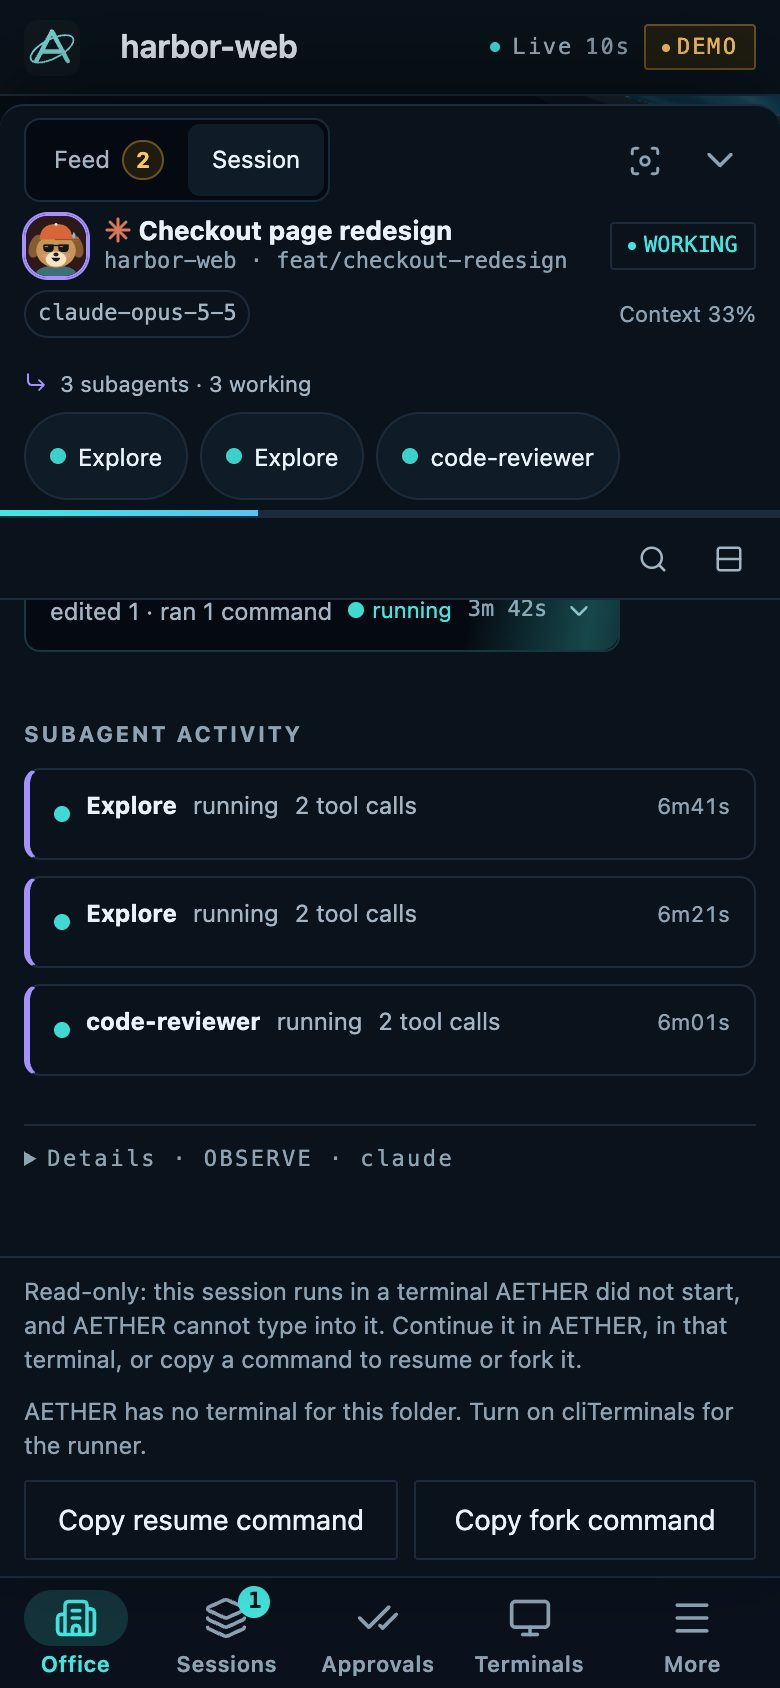
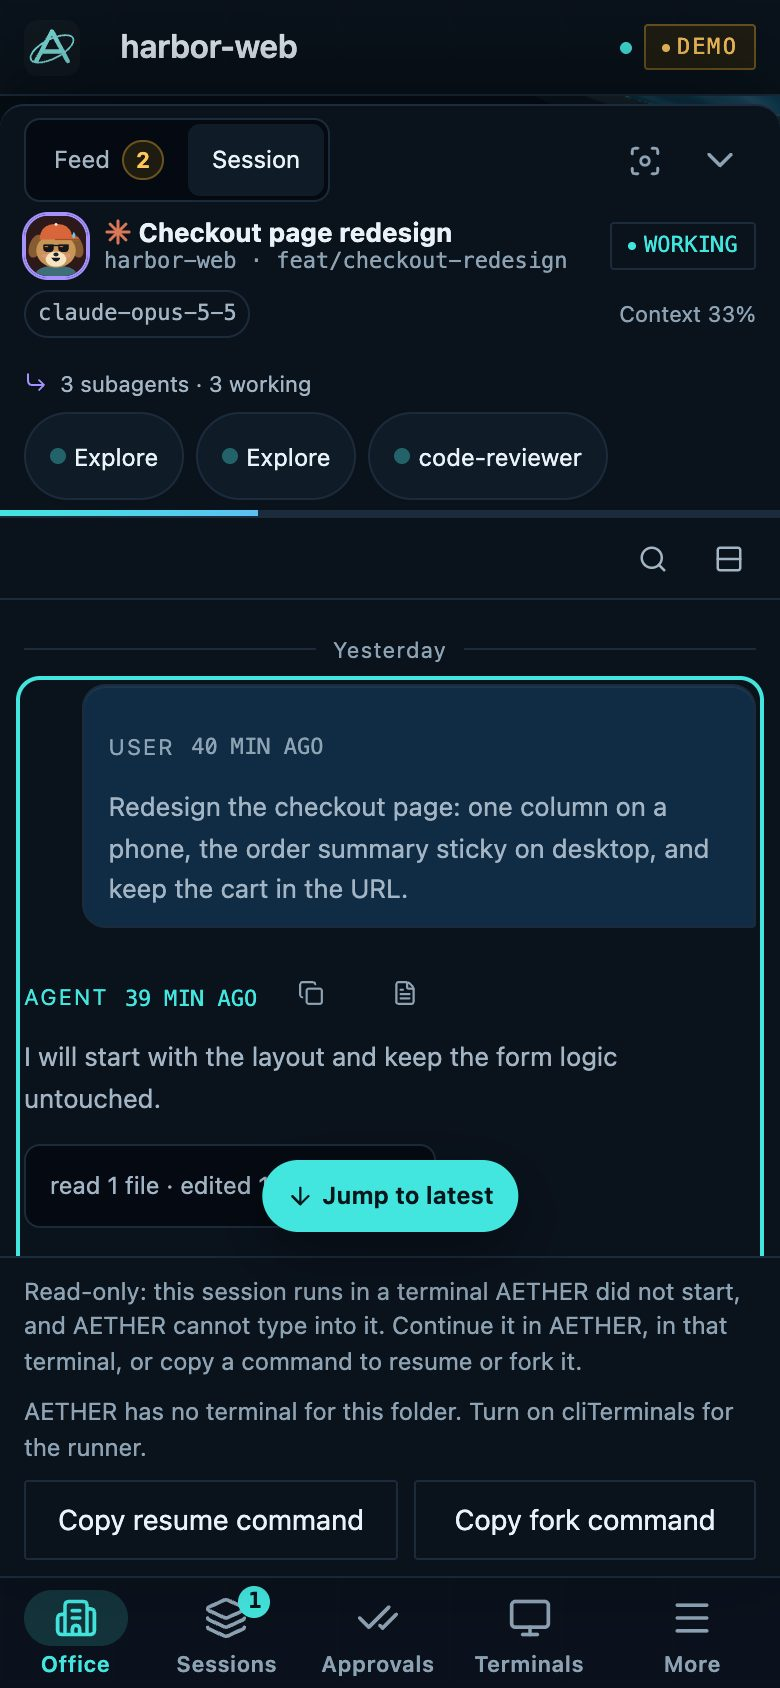
docs: expand bilingual README screenshot galleries

diff --git a/docs/images/README.md b/docs/images/README.md
@@ -7,7 +7,7 @@ of at most 250 KB, taken from a throwaway demo stack on **synthetic data**: inve
 (`harbor-web`, `ledger-api`, ...), authors, conversations and token counts, fake `claude` processes (`sleep`, named
 `claude`) and hook records. Nothing is read from a real `~/.claude` or `~/.codex`, no model is called, and the stack and its
 data directory are deleted afterwards. The LAN address in the pairing image is a stand-in (a private-range example); the QR code in
-it belongs to the deleted stack and works nowhere. The interface is shown in English, dark theme unless the name says light or ends in `zh-TW`. Synthetic conversation content keeps its original language even when the application chrome is Traditional Chinese.
+it belongs to the deleted stack and works nowhere. Session, repository, conversation and token data are synthetic; sidebar CPU, memory and disk figures are local host readings at capture time. The interface is shown in English, dark theme unless the name says light or ends in `zh-TW`. Synthetic conversation content keeps its original language even when the application chrome is Traditional Chinese.
 
 | File                                                        | Size              | Shows                                                                                                  |
 | ----------------------------------------------------------- | ----------------- | ------------------------------------------------------------------------------------------------------ |
@@ -29,6 +29,8 @@ it belongs to the deleted stack and works nowhere. The interface is shown in Eng
 | `office-phone.jpg`                                          | 390x844 @2x       | The office on a phone with a pending approval (README)                                                 |
 | `sessions-phone.jpg`                                        | 390x844 @2x       | The live sessions bottom sheet (README)                                                                |
 | `conversation-phone.jpg`                                    | 390x844 @2x       | A conversation in the bottom sheet                                                                     |
+
+Additional Traditional Chinese gallery inputs: `squad-strings-desktop.zh-TW.jpg` and `kpi-dashboard-desktop.zh-TW.jpg` (1440x900), and `conversation-phone.zh-TW.jpg` (390x844 at 2x). These and their English counterparts were captured from the same isolated synthetic demo stack for the expanded README galleries. Each language's gallery shows six views: conversation, squad, Git flower, KPI dashboard, phone feed and phone conversation.
 
 ## Hero provenance
 

diff --git a/README.zh-TW.md b/README.zh-TW.md
@@ -92,15 +92,28 @@ pnpm hooks install --project /path/to/repo --remote-approvals
 安裝前請閱讀[會修改哪些檔案](docs/getting-started.md#exact-activity-with-hooks-optional)。遠端批准適用於 Claude Code；Codex 沒有相同的 hook 合約。
 
 <details>
-<summary><strong>查看對話面板與手機介面</strong></summary>
+<summary><strong>查看對話面板、小隊、Git 歷史、用量與手機介面</strong></summary>
 
-<img src="docs/images/session-conversation-desktop.zh-TW.jpg" alt="包含 Markdown、工具呼叫與子代理活動的對話面板" width="100%" />
+### 對話與工具活動
+
+<img src="docs/images/session-conversation-desktop.zh-TW.jpg" alt="繁中桌面辦公室、對話歷史、工具結果與子代理活動" width="100%" />
+
+| 子代理小隊                                                                                                                          | Git 歷史綻放成花                                                                                                    |
+| ----------------------------------------------------------------------------------------------------------------------------------- | ------------------------------------------------------------------------------------------------------------------- |
+| <img src="docs/images/squad-strings-desktop.zh-TW.jpg" alt="繁中介面中的主管與四個子代理，呈現活動連線和多鏡頭畫面" width="100%" /> | <img src="docs/images/git-flower-desktop.zh-TW.jpg" alt="繁中 3D 場景中，從辦公室中央生長的 Git 花" width="100%" /> |
+
+### Token 用量與 Git 活動
+
+<img src="docs/images/kpi-dashboard-desktop.zh-TW.jpg" alt="繁中 KPI 儀表板，呈現 Token 組成、每日用量、模型占比與 Git 活動" width="100%" />
+
+### 從手機列表進入對話
 
 <p align="center">
-  <img src="docs/images/sessions-phone.zh-TW.jpg" alt="手機底部抽屜的 session 列表" width="240" />
+  <img src="docs/images/sessions-phone.zh-TW.jpg" alt="繁中手機工作列表，呈現執行中工作與待處理狀態" width="220" />
+  <img src="docs/images/conversation-phone.zh-TW.jpg" alt="繁中手機對話面板，包含 Markdown、工具結果與子代理活動" width="220" />
 </p>
 
-圖片中的 session 均為合成資料，用於展示介面，不代表真實提供者的驗證結果。
+圖片中的 session 均為合成資料，用於展示介面，不代表真實提供者的驗證結果；示範對話保留原始內容語言。
 
 </details>
 

diff --git a/README.md b/README.md
@@ -100,12 +100,25 @@ Review [what the installer changes](docs/getting-started.md#exact-activity-with-
 Claude Code; Codex has no equivalent hook contract.
 
 <details>
-<summary><strong>See the conversation panel and phone interface</strong></summary>
+<summary><strong>Explore conversations, squads, Git history, KPIs and the phone interface</strong></summary>
 
-<img src="docs/images/session-conversation-desktop.jpg" alt="Conversation panel with Markdown, tool calls and subagent activity" width="100%" />
+### Conversations and tool activity
+
+<img src="docs/images/session-conversation-desktop.jpg" alt="Desktop office with conversation history, tool results and subagent activity" width="100%" />
+
+| Subagent squads                                                                                                                                         | Git history in bloom                                                                                                              |
+| ------------------------------------------------------------------------------------------------------------------------------------------------------- | --------------------------------------------------------------------------------------------------------------------------------- |
+| <img src="docs/images/squad-strings-desktop.jpg" alt="A supervisor and four subagents, with activity strings and multiple camera views" width="100%" /> | <img src="docs/images/git-flower-desktop.en.jpg" alt="Git flower growing above the office in the actual 3D scene" width="100%" /> |
+
+### Token use and Git activity
+
+<img src="docs/images/kpi-dashboard-desktop.jpg" alt="KPI dashboard with token breakdown, daily use, model shares and Git activity" width="100%" />
+
+### From feed to conversation on your phone
 
 <p align="center">
-  <img src="docs/images/sessions-phone.jpg" alt="Session feed in the phone's bottom sheet" width="240" />
+  <img src="docs/images/sessions-phone.jpg" alt="Mobile session feed showing active work and requests for attention" width="220" />
+  <img src="docs/images/conversation-phone.jpg" alt="Mobile conversation with Markdown, tool results and subagent activity" width="220" />
 </p>
 
 All images show synthetic sessions. They illustrate the interface; they are not live-provider verification evidence.

diff --git a/CHANGELOG.md b/CHANGELOG.md
@@ -9,7 +9,7 @@ project follows its [pre-release version policy](docs/release/versioning.md).
 
 ### Changed
 
-- Refresh both README introductions with localized dark control-room covers, the orbital A logo, actual Git-flower and mobile captures, and a clearer path to getting started.
+- Refresh both README introductions with localized dark control-room covers, the orbital A logo, actual Git-flower and mobile captures, expanded six-view galleries, and a clearer path to getting started.
 
 - Mark the pre-publication open-source risk assessment as a historical snapshot and point current decisions to the release and verification ledgers.
 
